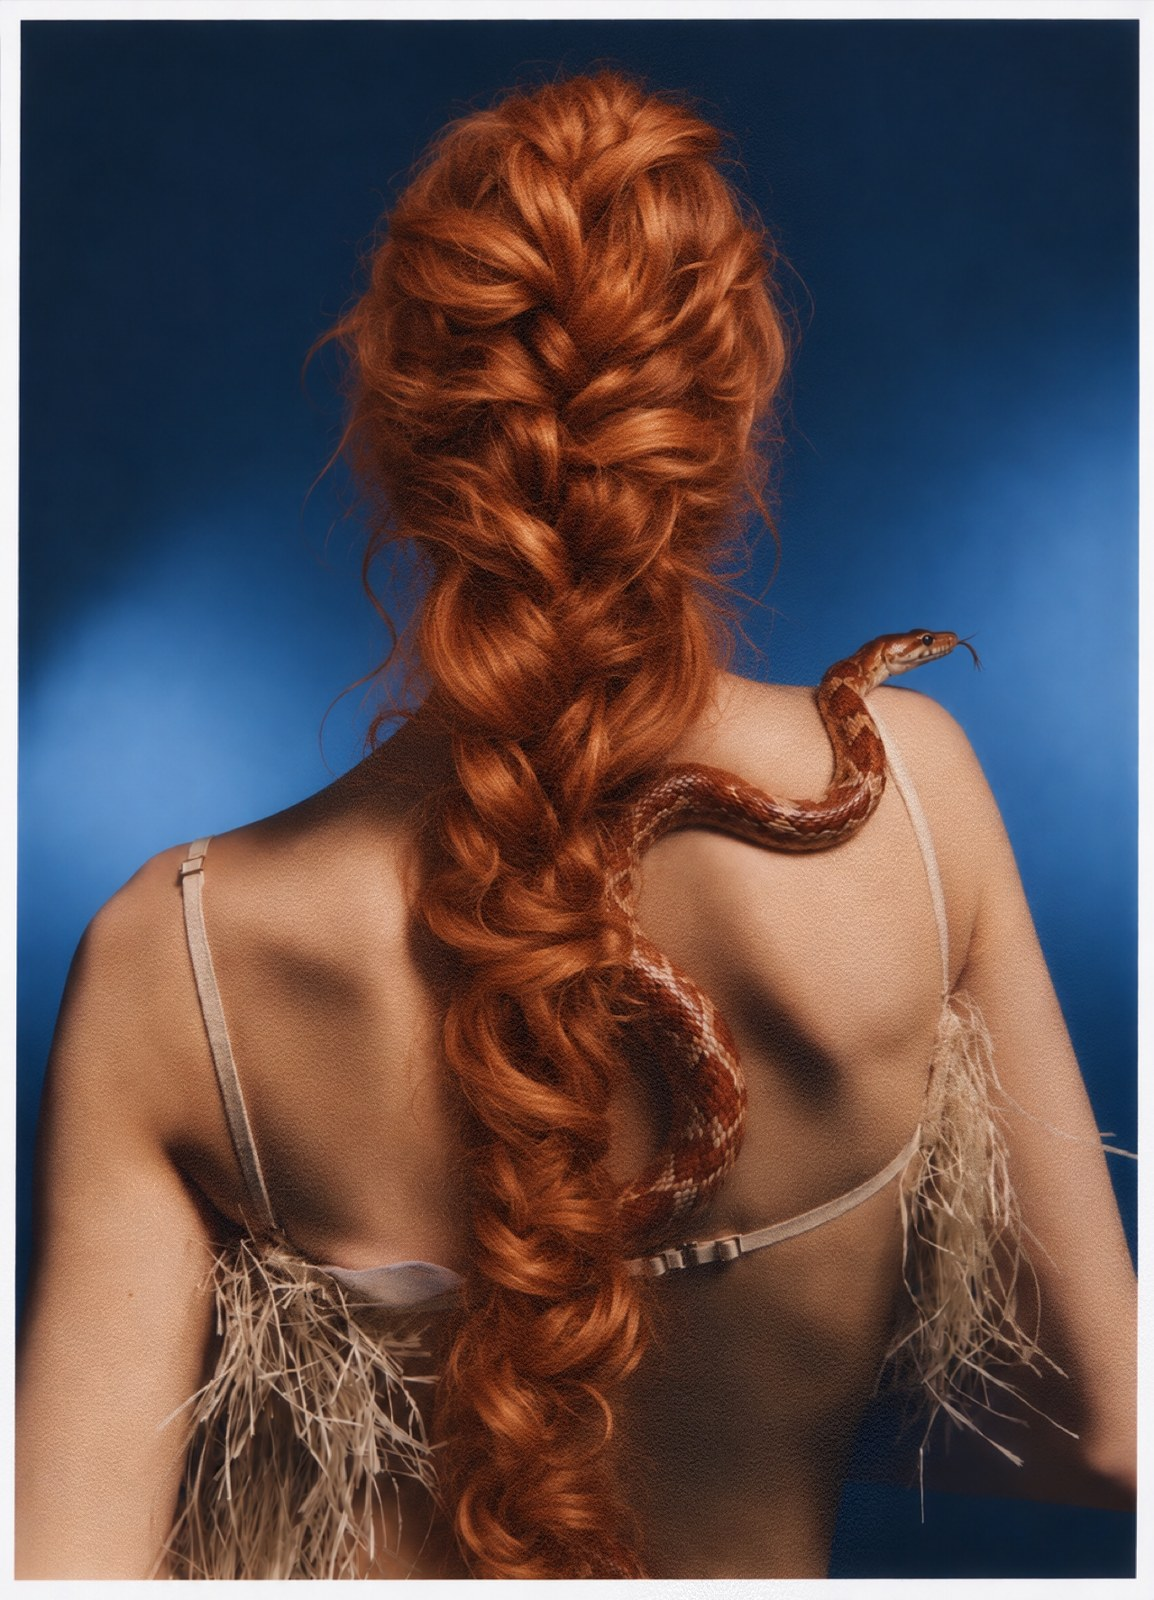
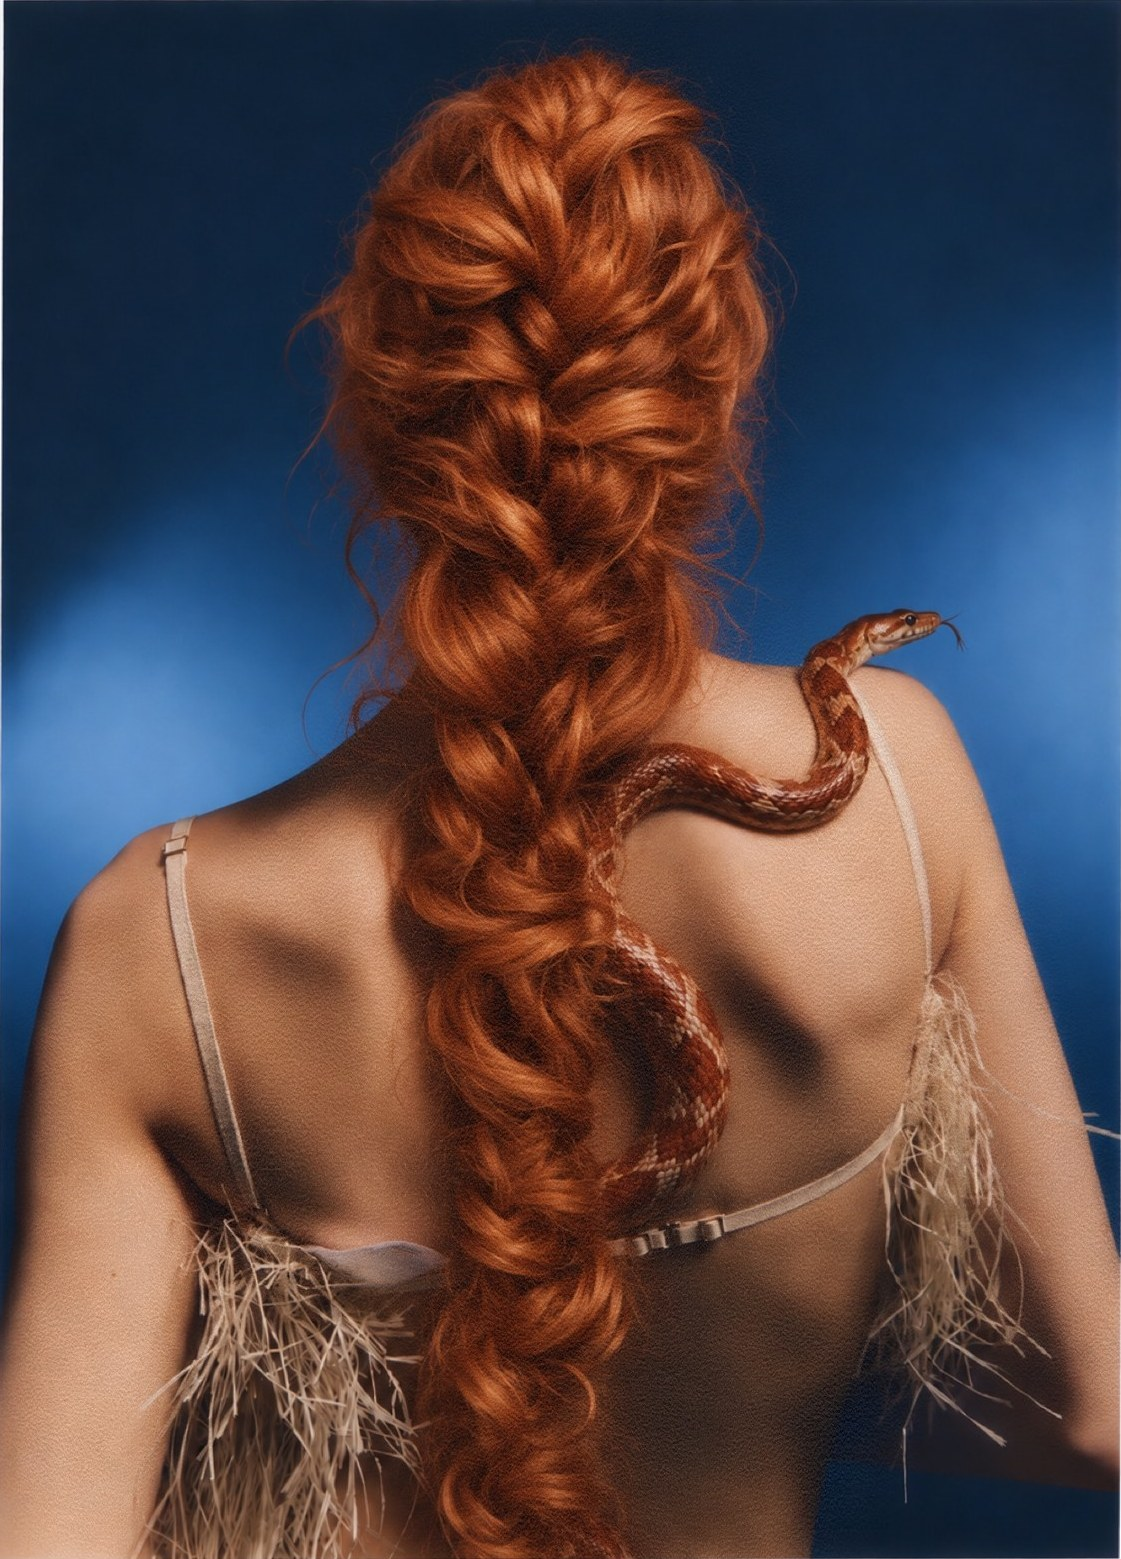
Photography: smaller framed gallery
Claude-Session: https://claude.ai/code/session_013yw1bwAEofViWcn2eH5gG5

diff --git a/index.html b/index.html
@@ -163,7 +163,7 @@ body.cv-open .cvm{opacity:1;visibility:visible;transition:opacity .5s}
 .wbh{max-width:1180px;margin:0 auto 18px;font-weight:400;font-size:clamp(24px,2.4vw,34px)}.wscroll{max-height:min(70vh,640px);overflow-y:auto;padding:clamp(14px,2vw,24px);display:grid;grid-template-columns:repeat(2,minmax(0,1fr));gap:clamp(12px,1.4vw,18px);scrollbar-width:thin;scrollbar-color:#444 transparent}.wcard{display:flex;flex-direction:column;gap:12px;padding:clamp(18px,2vw,26px);border:1px solid var(--line);text-decoration:none;color:var(--fg);background:#0f0f0f;transition:border-color .4s,transform .5s cubic-bezier(.2,.7,.2,1)}@media (hover:hover){.wcard:hover{border-color:#777;transform:translateY(-3px)}}.wcard .wd{color:var(--muted);font-size:14px;display:flex;justify-content:space-between;gap:12px}.wcard .wd em{font-style:normal}.wcard b{font-weight:400;font-size:clamp(18px,1.5vw,22px);line-height:1.35;flex:1}.wcard .wr{font-size:14px;color:var(--soft);border-bottom:1px solid var(--line);align-self:flex-start;padding-bottom:2px}@media (max-width:640px){.wscroll{grid-template-columns:minmax(0,1fr)}}
 .wframe{border:1px solid var(--line);background:#0b0b0b;max-width:1180px;margin:0 auto clamp(56px,9vh,100px)}.wbar{display:flex;align-items:center;gap:14px;padding:10px 14px;border-bottom:1px solid var(--line);font-size:14px;color:var(--muted)}.wdots{display:flex;gap:6px}.wdots i{width:9px;height:9px;border-radius:50%;background:#333;display:block}.wurl{flex:1;min-width:0;overflow:hidden;text-overflow:ellipsis;white-space:nowrap}.wbar a{color:var(--fg);text-decoration:none;border-bottom:1px solid var(--fg);white-space:nowrap}.wframe iframe{display:block;width:100%;height:min(78vh,820px);border:0;background:#fff}.wlist{max-width:860px}.wlist h2{font-weight:400;font-size:clamp(26px,2.6vw,36px);margin:0 0 16px}.wlist ul{list-style:none;margin:0;padding:0}.wlist li{padding:14px 0;border-bottom:1px solid var(--line);color:var(--soft);font-size:clamp(16px,1.3vw,19px);line-height:1.45}@media (max-width:560px){.wdots{display:none}.wframe iframe{height:72vh}}
 footer .lnk{display:inline-block;margin-top:12px;color:var(--fg);text-decoration:none;border-bottom:1px solid var(--line);padding-bottom:2px;font-size:17px;transition:border-color .3s}footer .lnk:hover{border-color:var(--fg)}
-.pgrid{margin:0 var(--pad);columns:3 300px;column-gap:clamp(16px,2vw,28px)}.pt{margin:0 0 clamp(16px,2vw,28px);break-inside:avoid}.pimg{position:relative;display:block;width:100%;border:0;padding:0;background:#111;cursor:zoom-in;overflow:hidden}.pimg img{display:block;width:100%;height:auto;transition:transform .7s cubic-bezier(.2,.7,.2,1)}.pov{position:absolute;inset:auto 0 0 0;padding:clamp(16px,2vw,26px);text-align:left;color:#fff;background:linear-gradient(transparent,rgba(0,0,0,.72));opacity:0;transform:translateY(10px);transition:opacity .45s,transform .45s;display:flex;flex-direction:column;gap:6px}.pov em{font-style:normal;font-size:13px;letter-spacing:.1em;text-transform:uppercase;opacity:.8}.pov b{font-weight:400;font-size:clamp(20px,1.8vw,26px)}.pov i{font-style:normal;font-size:15px;line-height:1.5;opacity:.9}@media (hover:hover){.pimg:hover img{transform:scale(1.04)}.pimg:hover .pov,.pimg:focus-visible .pov{opacity:1;transform:none}.pt figcaption{display:none}}@media (hover:none){.pov{display:none}.pt figcaption{display:flex;flex-direction:column;gap:3px;margin-top:10px}.pt figcaption b{font-weight:400;font-size:19px}.pt figcaption em{font-style:normal;color:var(--muted);font-size:14px}.pt figcaption i{font-style:normal;color:var(--soft);font-size:15px;line-height:1.5}}.pcount{margin:8px var(--pad) 0;color:var(--muted);font-size:16px}
+.pgrid{margin:0 auto;padding:0 var(--pad);max-width:1240px;display:flex;flex-wrap:wrap;justify-content:center;gap:clamp(12px,1.4vw,18px)}.pgrid .pt{margin:0;flex:0 0 auto;width:calc(clamp(220px,20vw,290px)*var(--ar) + 2*clamp(6px,.7vw,10px))}.pt{margin:0 0 clamp(10px,1.2vw,16px);break-inside:avoid}.pimg{position:relative;display:block;width:100%;border:0;padding:clamp(6px,.7vw,10px);background:#f4f2ee;cursor:zoom-in;overflow:hidden}.pimg{overflow:hidden}.pimg img{display:block;width:100%;height:auto;transition:transform .7s cubic-bezier(.2,.7,.2,1)}.pov{position:absolute;inset:auto clamp(6px,.7vw,10px) clamp(6px,.7vw,10px) clamp(6px,.7vw,10px);padding:clamp(10px,1vw,14px);text-align:left;color:#fff;background:linear-gradient(transparent,rgba(0,0,0,.72));opacity:0;transform:translateY(10px);transition:opacity .45s,transform .45s;display:flex;flex-direction:column;gap:6px}.pov em{font-style:normal;font-size:11px;letter-spacing:.1em;text-transform:uppercase;opacity:.8}.pov b{font-weight:400;font-size:clamp(15px,1.2vw,18px)}.pov i{font-style:normal;font-size:12.5px;line-height:1.45;opacity:.9}@media (hover:hover){.pimg:hover img{transform:scale(1.04)}.pimg:hover .pov,.pimg:focus-visible .pov{opacity:1;transform:none}.pt figcaption{display:none}}@media (max-width:760px){.pgrid{gap:10px}.pgrid .pt{width:calc(50% - 5px)}}@media (hover:none){.pov{display:none}.pt figcaption{display:flex;flex-direction:column;gap:3px;margin-top:10px}.pt figcaption b{font-weight:400;font-size:15px}.pt figcaption em{font-style:normal;color:var(--muted);font-size:12px}.pt figcaption i{display:none}}.pcount{margin:8px var(--pad) 0;color:var(--muted);font-size:16px}
 .catPg{display:none;padding:clamp(96px,16vh,150px) var(--pad) clamp(60px,10vh,110px)}
 .cat-head{display:flex;justify-content:space-between;align-items:flex-end;gap:24px;border-bottom:1px solid var(--line);padding-bottom:20px;margin-bottom:clamp(48px,8vh,80px)}
 .cat-head h1{margin:0;font-size:clamp(40px,6vw,80px);font-weight:400;line-height:1}
@@ -903,9 +903,9 @@ const PHOTOS=[
 {src:'img/ph6.jpg',w:1170,h:1543,t:'Heirloom Modern II',c:'Photography collection',y:'2026',d:'The second frame of Heirloom Modern: floor-length hair, an antique table and leopard chair, cut through by sharp green hosiery and heels.'},
 {src:'img/ph7.jpg',w:1280,h:1771,t:'Serpent',c:'Beauty and hair',y:'2026',d:'A sculpted copper braid down a bare back, with a corn snake following its line, set against deep cobalt blue.'}];
 const pgrid=$('pgrid');
-pgrid.innerHTML=PHOTOS.map((p,i)=>`<figure class="pt"><button type="button" class="pimg" data-i="${i}" aria-label="View ${p.t}, ${p.c}, ${p.y}"><img src="${p.src}" alt="${p.t}" width="${p.w}" height="${p.h}" loading="lazy" decoding="async"><span class="pov"><em>${p.c}, ${p.y}</em><b>${p.t}</b><i>${p.d}</i></span></button><figcaption><b>${p.t}</b><em>${p.c}, ${p.y}</em><i>${p.d}</i></figcaption></figure>`).join('');
+pgrid.innerHTML=PHOTOS.map((p,i)=>`<figure class="pt" style="--ar:${(p.w/p.h).toFixed(3)}"><button type="button" class="pimg" data-i="${i}" aria-label="View ${p.t}, ${p.c}, ${p.y}"><img src="${p.src}" alt="${p.t}" width="${p.w}" height="${p.h}" loading="lazy" decoding="async"><span class="pov"><em>${p.c}, ${p.y}</em><b>${p.t}</b></span></button><figcaption><b>${p.t}</b><em>${p.c}, ${p.y}</em><i>${p.d}</i></figcaption></figure>`).join('');
 $('wvCount').textContent=PHOTOS.length+' photographs';
-const PL=PHOTOS.map(p=>({bg:`url(${p.src}) center/contain no-repeat`,cap:p.t,sub:`${p.c}, ${p.y}`}));
+const PL=PHOTOS.map(p=>({bg:`url(${p.src}) center/contain no-repeat`,cap:p.t,sub:`${p.c}, ${p.y}. ${p.d}`}));
 pgrid.querySelectorAll('.pimg').forEach(b=>b.onclick=()=>openPhoto(+b.dataset.i,PL));
 function centerWall(){}
 let pi=0,plbFrom=null;const plb=$('plb');
